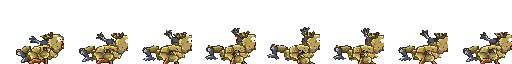
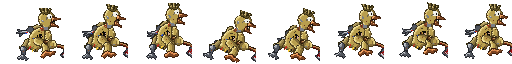
SEEN walks with a stiff, limping lurch, dragging its axe (instead of the crawl)
Claude-Session: https://claude.ai/code/session_01QrPMowW61BtpNneRMoKnVz

diff --git a/tools/sprites/last_seen_moves.py b/tools/sprites/last_seen_moves.py
@@ -89,10 +89,18 @@ def wrong_idle():
     H = dict(torso=(30, 2, 2), head=(-24, 0, 0), fupper=(10, 0, 0), ffore=(80, 0, 0), ffist=(30, 0, 0), bupper=(20, 0, 0), bfore=(20, 0, 0), **legs(26, -30, -26, 30, 8, -8))
     return [k(0, P(**H)), k(96, P(**mix(H, torso=(36, 2, 2), fupper=(16, 0, 0))), 'inout'), k(192, P(**H), 'inout')]
 def wrong_run():
-    """On all fours: a fast, scuttling crawl."""
-    def C(s): return P(torso=(78, 4, 6), head=(-70, 0, 0), hair=(-20, 0, 0), fupper=(60 + 30 * s, 0, 0), ffore=(10, 0, 0), bupper=(60 - 30 * s, 0, 0), bfore=(10, 0, 0),
-                       root=(0, 0, 6, 1.1, 0.86), **legs(60 - 20 * s, -90, 40 + 20 * s, -80, 20, 10))
-    return [k(0, C(1)), k(12, C(0), 'linear'), k(24, C(-1), 'linear'), k(36, C(0), 'linear'), k(48, C(1), 'linear')]
+    """A stiff, limping lurch: hunched over, the axe dragging along the floor behind its hand, the bare metal leg
+    landing hard (the whole body dips and the head jerks), the furred leg swinging through."""
+    AXE_DRAG = dict(fupper=(0, 0, 0), ffore=(60, 0, 0), ffist=(16, 0, 0))       # blade trailing just above the floor
+    def L(bt, bs, ft, fs, bsh=0, fsh=0):                                            # a short stride on top of the hunch's bent knees
+        return legs(26 + bt, -30 + bs, -26 + ft, 30 + fs, 8 + bsh, -8 + fsh)
+    def W(lg, torso, head, bup, dip, sq):
+        return P(torso=(torso, 2, 2), head=(head, 0, 0), bupper=(bup, 0, 0), bfore=(20, 0, 0), root=(0, 0, dip, 1 + sq, 1 - sq), **AXE_DRAG, **lg)
+    A = W(L(-10, 6, -14, 6, 0, -4), 33, -20, 30, 1, 0.03)       # front foot plants
+    B = W(L(-20, 22, 6, -6, -8, 4), 30, -26, 10, -1, -0.02)     # passing: the metal leg swings through, stiff
+    C = W(L(14, 2, 10, 16, 4, 0), 37, -12, -10, 2, 0.05)        # the metal leg lands hard: a dip, the head jolts
+    D = W(L(4, -6, -22, 22, 0, -6), 30, -28, 20, -1, -0.02)     # passing: the furred leg swings through
+    return [k(0, A), k(12, B, 'out'), k(22, C, 'snap'), k(36, D, 'out'), k(48, A, 'in')]
 
 WRONG = borrowed()
 # ---- SEEN's own attacks: hunched over, swinging the bloody axe (they replace the borrowed upright swings)
